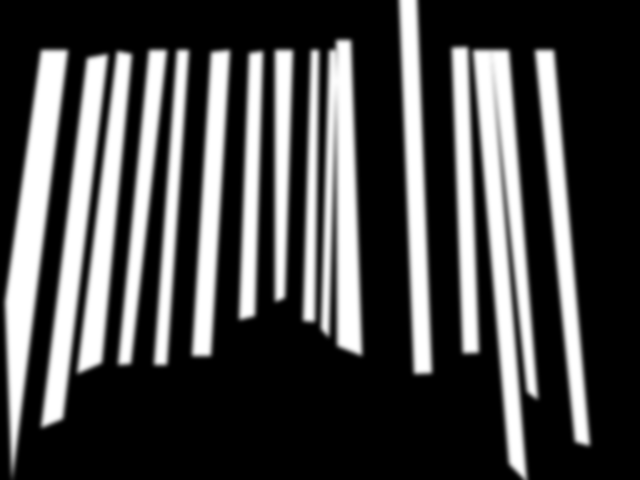
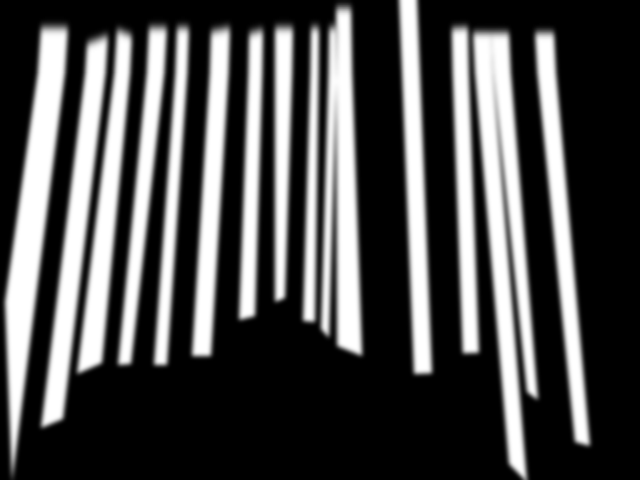
Final post install.

Changed region(s): [[0.0312, 0.0, 0.5625, 0.125], [0.6875, 0.0312, 0.875, 0.125]]

diff --git a/src/particles.cpp b/src/particles.cpp
@@ -9,12 +9,15 @@
 #include "particles.h"
 
 enum AbletonControls {
-	kSpookyVol = 1,
-	kFireIntensity,
-	kFireA,
-	kFireB,
-	kFireC,
-	kFireD
+        kSpookyA = 1,
+        kSpookyB,
+        kSpookyC,
+        kSpookyD,
+        kFireA,
+        kFireB,
+        kFireC,
+        kFireD,
+        kFireIntensity
 };
 
 
@@ -27,6 +30,8 @@ Particles::Particles(ofRectangle _bounds) {
     world = _bounds;
     curX = world.getWidth()/4;
     curY = world.getHeight()/4;
+    upperRamp = 700;
+    lowerCutoff = 300;
     setupMidi();
     setupParticles();
     camVec.clear();
@@ -98,7 +103,7 @@ void Particles::setupParticleRects() {
 }
 
 void Particles::draw() {
-    ofEnableAlphaBlending();
+   // ofEnableAlphaBlending();
  //   ofEnableBlendMode(OF_BLENDMODE_ADD);
     for(size_t i = 0; i < fireParticles.size(); ++i) {
 #ifdef ONE_FBO
@@ -114,6 +119,7 @@ void Particles::draw() {
 			ofEnableBlendMode(OF_BLENDMODE_ADD);
             
 			if(showSpooky(i)) {
+               // ofLog() << "Spooky " << i;
 				spookyShader.begin();
 				spookyShader.setUniform1f("visibility", ofMap(stokeParams[i].spookyVisibility, 1, 0, 0, 0.05, true));
 				spookyShader.setUniform1f("colorMod", ofNoise(impulseIndex * 0.2));
@@ -150,15 +156,25 @@ void Particles::draw() {
 void Particles::update() {
     impulseIndex += 0.1;
 	
+    mainVal = 0.0;
+    
 	size_t targetColumn = ofMap(intensityVector.x, -1, 1, 0, fireParticles.size());
 	for(size_t i = 0; i < stokeParams.size(); ++i) {
-		float columnTarget = camVec[i].y;
+//float columnTarget = i == targetColumn ? intensityVector.y : 0;
+        float length = camVec[i].length();
+//        cout << length << endl;
+      length = length < lowerCutoff ? 0 : length;
+        float columnTarget = ofMap(length,0,upperRamp,0.,0.999, true);
+//        columnTarget = ofLerp(columnTarget,length,.8);
+        if(columnTarget > 1) columnTarget = 1;
 		
+        mainVal += columnTarget;
+        
 		if(stokeParams[i].intensity < columnTarget) {
-			stokeParams[i].intensity = ofLerp(stokeParams[i].intensity, columnTarget, 0.5);
+			stokeParams[i].intensity = ofLerp(stokeParams[i].intensity, columnTarget, 0.2); //How fast to rise
 			fireParticles[i].addImpulse();
 		} else {
-			stokeParams[i].intensity = ofLerp(stokeParams[i].intensity, columnTarget, 0.01);
+			stokeParams[i].intensity = ofLerp(stokeParams[i].intensity, columnTarget, 0.025); // How fast to go down
 		}
 	}
 	
@@ -204,13 +220,13 @@ void Particles::update() {
 	bgColor.g += flickerAmount * 0.5;
 	bgColor.lerp(targetColor, 0.15);
 	
-//#ifdef CONSTANT_INTENSITY
+#ifdef CONSTANT_INTENSITY
 	for(size_t i = 0; i < stokeParams.size(); ++i) {
 		stokeParams[i].intensity = 0.9;
 		stokeParams[i].spookyVisibility = 0.9;
 	}
-//#endif
-    
+#endif
+    mainVal = mainVal / 4;
     updateMidi();
 }
 
@@ -243,6 +259,10 @@ void Particles::setVectors(vector<ofVec2f> vec) {
     camVec = vec;
 }
 
+float Particles::getMainVal() {
+    return mainVal;
+}
+
 ///////////////////////////////////
 ////////// MIDI STUFFS  ///////////
 ///////////////////////////////////
@@ -253,9 +273,39 @@ void Particles::setupMidi() {
 
 void Particles::updateMidi() {
 	midiOut.sendControlChange(1, kFireIntensity, totalIntensity * 127);
+    
+    midiOut.sendControlChange(1,kSpookyA,(1-stokeParams[0].spookyVisibility)*127);
+    midiOut.sendControlChange(1,kSpookyB,(1-stokeParams[1].spookyVisibility)*127);
+    midiOut.sendControlChange(1,kSpookyC,(1-stokeParams[2].spookyVisibility)*127);
+    midiOut.sendControlChange(1,kSpookyD,(1-stokeParams[3].spookyVisibility)*127);
+    
 	midiOut.sendControlChange(1, kFireA, stokeParams[0].intensity * 127);
 	midiOut.sendControlChange(1, kFireB, stokeParams[1].intensity * 127);
 	midiOut.sendControlChange(1, kFireC, stokeParams[2].intensity * 127);
 	midiOut.sendControlChange(1, kFireD, stokeParams[3].intensity * 127);
-	midiOut.sendControlChange(1, kSpookyVol, ofMap(totalSpooky, 0, 1.25, 0, 127, true));
+
+}
+
+///////////////////////////////////
+////////// Value STUFFS  ///////////
+///////////////////////////////////
+
+void Particles::increaseUpper() {
+    upperRamp = ofClamp(upperRamp+100,0,1500);
+    ofLog() << "UpperRamp:" << upperRamp;
+}
+
+void Particles::decreaseUpper() {
+    upperRamp = ofClamp(upperRamp-100,0,1500);
+    ofLog() << "UpperRamp:" << upperRamp;
+}
+
+void Particles::increaseLower() {
+    lowerCutoff = ofClamp(lowerCutoff+50, 0,500);
+    ofLog() << "lowerCutoff:" << lowerCutoff;
+}
+
+void Particles::decreaseLower() {
+    lowerCutoff = ofClamp(lowerCutoff-50, 0,500);
+    ofLog() << "lowerCutoff:" << lowerCutoff;
 }

diff --git a/src/testApp.cpp b/src/testApp.cpp
@@ -31,6 +31,7 @@ void testApp::setup(){
     
     part = new Particles(ofRectangle(0,0,pw*N_PROJECTOR,ph));
     alpha.load("shaders/alpha");
+    berserk.load("shaders/burst-shader");
 }
 
 //--------------------------------------------------------------
@@ -50,6 +51,16 @@ void testApp::draw(){
     else drawGraphics();
     if(debug) drawDebug();
     ofPopMatrix();
+    
+    float mult = ofMap(part->getMainVal(), 0.8, 1.0, 0.0, 0.3, true);
+    
+    ofEnableBlendMode(OF_BLENDMODE_MULTIPLY);
+    berserk.begin();
+    d += 0.1;
+    berserk.setUniform1f("t", d);
+    berserk.setUniform1fv("multi", &mult);
+    ofRect(0,0,ofGetWidth(), ofGetHeight());
+    berserk.end();
 }
 
 
@@ -59,19 +70,21 @@ void testApp::draw(){
 #pragma mark - Graphics
 
 void testApp::updateGraphics() {
+    if(debug || edit) ofShowCursor(); else ofHideCursor();
     cam->update();
     part->setVectors(cam->getAmplitudeWithinRegion());
     part->update();
     
     // Draw particle system
     cont.begin();
+    ofClear(0);
 //    ofBackground(0,100);
     part->draw();
     cont.end();
     
     // Make mask
     mask.begin();
-    ofBackground(0);
+    ofClear(0);
     for(int i=0;i<N_PROJECTOR;i++) {
         ofPushMatrix();
       //  ofEnableAlphaBlending();
@@ -272,11 +285,20 @@ void testApp::keyPressed(int key){
             reloadSettings(); ofClear(0); break;
         case 'c':
             cam->closePoints(editPoly); break;
-        case 'v':
+        case 'C':
             cam->resetCircle(); break;
         case 'f':
             fullscreen = !fullscreen;
             ofSetFullscreen(fullscreen);
+            break;
+        case 'v':
+            part->increaseUpper(); break;
+        case 'b':
+            part->decreaseUpper(); break;
+        case 'n':
+            part->increaseLower(); break;
+        case 'm':
+            part->decreaseLower(); break;
     }
 }
 

diff --git a/src/camera.cpp b/src/camera.cpp
@@ -241,7 +241,7 @@ vector<float> Camera::getValues(int poly, int _count) {
 vector<ofVec2f> Camera::getAmplitudeWithinRegion() {
     vector<ofVec2f> v;
     for(int i=0;i<N_POLY;i++) {
-        v.push_back(flow.getAverageFlowInRegion(active[i].getBoundingBox()));
+        v.push_back(flow.getTotalFlowInRegion(bounds[i].getBoundingBox()));
     }
     return v;
 }
@@ -299,10 +299,6 @@ void Camera::setupGUI() {
     gui->addWidgetDown(new ofxUIRadio( dim, dim, "FRAMERATE (FPS)", framerates, OFX_UI_ORIENTATION_HORIZONTAL));
     gui->addWidgetDown(new ofxUIRadio( dim, dim, "IMAGE CAPTURE SIZE (PX)", imageCaptureSizes, OFX_UI_ORIENTATION_HORIZONTAL));
     gui->addWidgetDown(new ofxUISpacer(length-xInit, 1));
-//    gui->addWidgetDown(new ofxUIBiLabelSlider(length-xInit, 2.0, 0.0, red, "RED", "LESS RED", "MORE RED", OFX_UI_FONT_SMALL));
-//    gui->addWidgetDown(new ofxUIBiLabelSlider(length-xInit, 2.0, 0.0, green, "GREEN", "LESS GREEN", "MORE GREEN", OFX_UI_FONT_SMALL));
-//    gui->addWidgetDown(new ofxUIBiLabelSlider(length-xInit, 2.0, 0.0, blue, "BLUE", "LESS BLUE", "MORE BLUE", OFX_UI_FONT_SMALL));
-//    
     
     // OPENCV STUFF
     gui->addWidgetDown(new ofxUIMinimalSlider(length-xInit, 0.1, 3., .5, "PYRAMIDSCALE", OFX_UI_FONT_SMALL));

diff --git a/src/particles.h b/src/particles.h
@@ -48,6 +48,12 @@ public:
 	void setupParticleRects();
     void setVectors(vector<ofVec2f> vec);
 	
+    float getMainVal();
+    
+    void increaseUpper();
+    void decreaseUpper();
+    void increaseLower();
+    void decreaseLower();
     
 private:
     ofxBox2d box2d;    ofRectangle world;
@@ -71,6 +77,7 @@ private:
 	vector<StokeParams> stokeParams;
 	
 	ofColor targetColor;
+    float mainVal;
 	
 	ofVec2f intensityVector;
 	
@@ -80,7 +87,7 @@ private:
 	vector<ofVec2f> spookyVerts;
     
     vector<ofVec2f> camVec;
-    
+    float upperRamp, lowerCutoff;
     
 };
 

diff --git a/src/testApp.h b/src/testApp.h
@@ -52,6 +52,7 @@ class testApp : public ofBaseApp{
         ofFbo cont; // Particles layer
         ofShader shader;
         ofShader alpha; // Alpha masks
+        ofShader berserk;
         ofFbo canvas; // Project + Draw
     
         Camera * cam;
@@ -65,6 +66,7 @@ class testApp : public ofBaseApp{
         ofPoint currentPoint;
         ofRectangle * rectBuf; // Holds cur buffer
     
+        float d; // incrementing shader
         bool edit, save, debug, fullscreen;
         int editLayer;
         int editCanvas, editPoly;

diff --git a/src/Viewport.cpp b/src/Viewport.cpp
@@ -15,6 +15,7 @@ Viewport::Viewport(ofPoint loc, int w, int h) {
     
     for(int i=0;i<N_LAYER;i++) {
         layers[i].allocate(getWidth(), getHeight(), OF_IMAGE_COLOR_ALPHA);
+        layers[i].clear();
     }
 }
 
